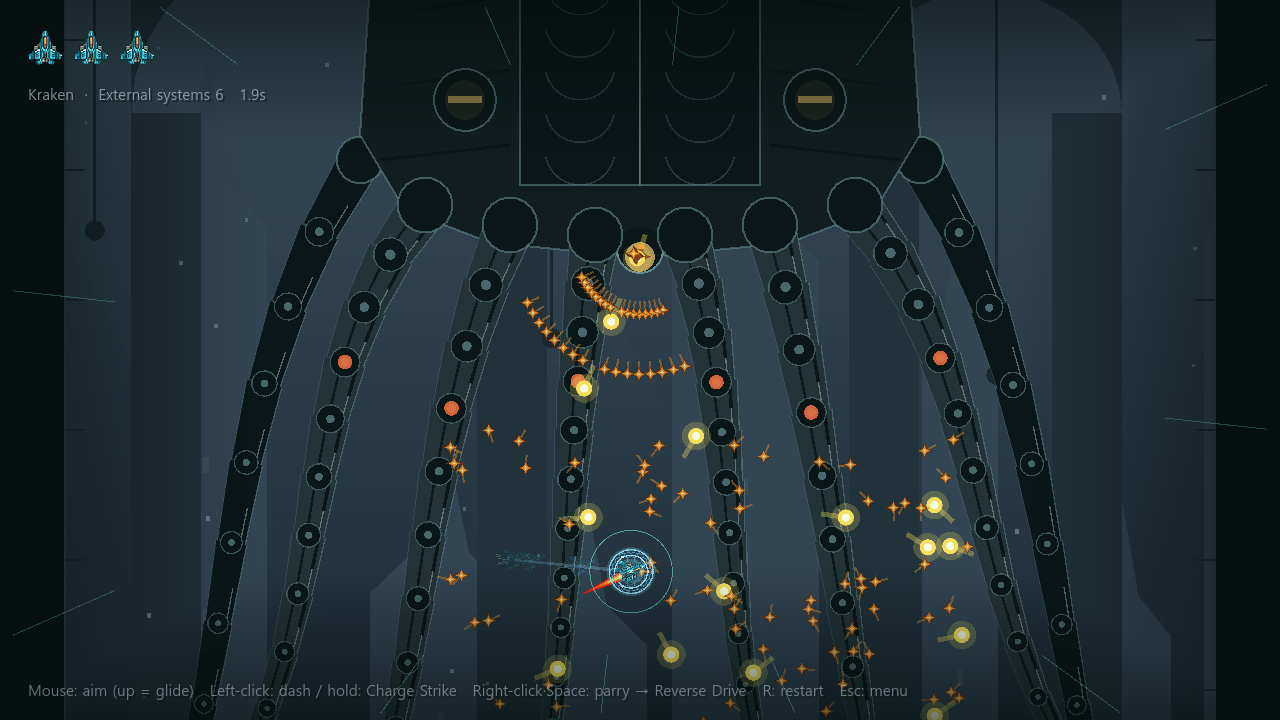
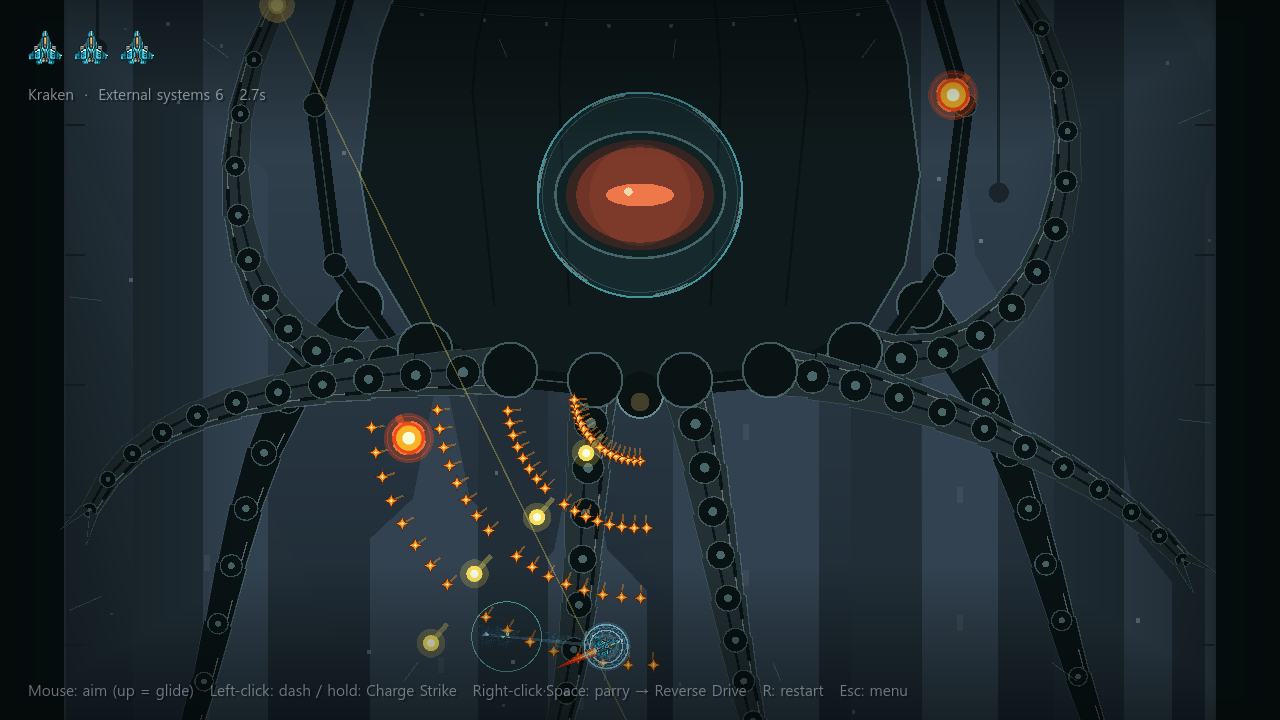
itch package for v0.62: store page adds the Barrier Satellite and music, upload guide covers updating the existing page, screenshots and cover recaptured from real boss attacks (no hand-placed bullets) plus two satellite shots

diff --git a/itch/UPLOAD.md b/itch/UPLOAD.md
@@ -1,13 +1,13 @@
-# itch.io 업로드 방법 (Parry Pierce v0.49)
+# itch.io 업로드 방법 (Parry Pierce v0.62)
 
 이 폴더(`itch/`)에는 itch.io 에 올리는 데 필요한 것이 모두 들어 있습니다.
 
 | 파일 | 용도 |
 |---|---|
 | `build/windows/` | **업로드할 게임 폴더** — `ParryPierce.exe` + `README.txt` (butler 로 올릴 때 이 폴더를 통째로) |
-| `ParryPierce-v0.49-windows.zip` | 같은 내용의 **zip** (웹 대시보드에서 직접 올릴 때) |
+| `ParryPierce-v0.62-windows.zip` | 같은 내용의 **zip** (웹 대시보드에서 직접 올릴 때) |
 | `cover.png` | 표지 이미지 (1260×1000, itch 권장 630×500 의 2배. 5:4 비율이라 그대로 올리면 된다) |
-| `screenshots/01~05_*.png` | 스크린샷 5장 (1280×720, 영어 화면) |
+| `screenshots/01~07_*.png` | 스크린샷 7장 (1280×720, 영어 화면) |
 | `STORE_PAGE.md` | 페이지에 붙여 넣을 소개문 (영어 + 한국어), 태그, 설정 값 |
 
 `exe`/`zip` 은 용량이 커서 git 에는 올리지 않습니다 (`.gitignore`). 새 버전을 만들면 아래 "새 버전 만들기"로 다시 만드세요.
@@ -21,11 +21,18 @@
 3. **Kind of project**: `Downloadable` (실행 파일). *Classification*: `Games`.
 4. **Release status**: `In development` (또는 `Prototype`).
 5. **Pricing**: `$0 or donate`(무료+후원) 권장, 또는 `No payments`.
-6. **Uploads** → *Upload files* 에서 `ParryPierce-v0.49-windows.zip` 선택 → 올라간 파일 옆 체크박스 **Windows** 선택.
+6. **Uploads** → *Upload files* 에서 `ParryPierce-v0.62-windows.zip` 선택 → 올라간 파일 옆 체크박스 **Windows** 선택.
 7. **Description** 에 `STORE_PAGE.md` 의 소개문을 붙여 넣는다.
-8. **Cover image** `cover.png`, **Screenshots** 에 `screenshots/` 의 PNG 5장.
+8. **Cover image** `cover.png`, **Screenshots** 에 `screenshots/` 의 PNG 7장.
 9. **Genre** `Action`, **Tags** 는 `STORE_PAGE.md` 참고, **Languages** 에 `English`, `Korean`.
 10. **Visibility & access** 를 처음엔 **Draft**(비공개)로 두고 *Save* → 미리보기로 확인 → 문제 없으면 **Public** 으로 바꾸고 저장.
+
+## 이미 올린 페이지 업데이트 (v0.49 → v0.62)
+
+1. 대시보드 *Edit game* → **Uploads** 에서 예전 `ParryPierce-v0.49-windows.zip` 을 지우고(또는 *Replace*) `ParryPierce-v0.62-windows.zip` 을 올린 뒤 **Windows** 체크. (butler 를 쓰면 아래 방법 B 한 줄)
+2. **Description** 의 *Colossi* 목록에 4번째 보스(결계 위성) 줄을 추가 — `STORE_PAGE.md` 에 반영해 두었다.
+3. **Cover image** 를 새 `cover.png` 로, **Screenshots** 를 지우고 새 7장으로 교체.
+4. 저장 후 *Devlog* 로 업데이트 소식을 남기면 팔로워에게 알림이 간다 (선택).
 
 ## 방법 B — butler (CLI, 업데이트에 편함 — 이후 버전은 이쪽 권장)
 
@@ -37,9 +44,9 @@ butler 는 바뀐 부분만 올려 줍니다. 한 번만 설치·로그인하면
 butler login
 
 # 3) 업로드: 폴더째 (권장, 다음 버전부터는 변경분만 전송된다)
-butler push itch/build/windows  <itch사용자명>/<프로젝트주소>:windows --userversion 0.49
+butler push itch/build/windows  <itch사용자명>/<프로젝트주소>:windows --userversion 0.62
 
-# 예) butler push itch/build/windows neverb0re/parry-pierce:windows --userversion 0.49
+# 예) butler push itch/build/windows neverb0re/parry-pierce:windows --userversion 0.62
 ```
 
 - 채널 이름 `windows` 는 itch 가 플랫폼(Windows)으로 자동 인식합니다.
@@ -52,9 +59,9 @@ butler push itch/build/windows  <itch사용자명>/<프로젝트주소>:windows 
 # 빌드 (실행 중인 ParryPierce 먼저 종료)
 "<Godot 콘솔 exe>" --headless --path . --export-release "Windows Desktop" ParryPierce.exe
 # itch 폴더 갱신 + zip
-python itch/pack.py 0.50          # build/windows 와 ParryPierce-v0.50-windows.zip 을 다시 만든다
+python itch/pack.py 0.63          # build/windows 와 ParryPierce-v0.63-windows.zip 을 다시 만든다
 # 올리기
-butler push itch/build/windows <사용자명>/<프로젝트주소>:windows --userversion 0.50
+butler push itch/build/windows <사용자명>/<프로젝트주소>:windows --userversion 0.63
 ```
 
 ## 올리기 전에 확인할 것

diff --git a/itch/STORE_PAGE.md b/itch/STORE_PAGE.md
@@ -8,7 +8,7 @@
 - **Platforms**: Windows · **Languages**: English, Korean
 - **Tags**: `parry`, `boss-rush`, `bullet-hell`, `2d`, `pixel-art`, `singleplayer`, `action`, `mouse-only`, `short`, `godot`
 - **Pricing**: Free (or $0 or donate)
-- **Cover**: `cover.png` · **Screenshots**: `screenshots/01~05_*.png`
+- **Cover**: `cover.png` · **Screenshots**: `screenshots/01~07_*.png`
 - **Community**: Comments on (피드백을 받으려면 켜 두기)
 
 ---
@@ -30,6 +30,7 @@ You are a tiny ship facing titanic war machines. Their weapons are huge, their b
 1. **The Observer** — an all-round tutorial titan: lava eruptions, arm sweeps, an eye laser.
 2. **The Barrage Fortress** — a parry-focused tank of spiral fire, fans, homing missiles and mines.
 3. **The Kraken** — an eight-limbed mechanical octopus. Intercept its tentacles to sever them, and brace for the discharge net.
+4. **The Barrier Satellite** — an orbital fortress sealed inside an unparryable barrier. Slip through its purple storms with perfect evades, crack the barrier with synced strikes, then parry the flood that pours out when it opens.
 
 ### Controls (mouse required)
 | Input | Action |
@@ -45,7 +46,7 @@ Language: pick **English / 한국어** with the flag buttons at the bottom-right
 - This is an early prototype — balance and content are still moving. Feedback is very welcome in the comments!
 - Windows may show a SmartScreen warning ("unknown publisher") because the build is not code-signed. Choose *More info → Run anyway* if you trust it.
 - Progress and settings are stored locally; no network access, no accounts, no tracking.
-- Sprite art: *Space Rage* by **Ravenmore** (CC-BY 3.0, http://dycha.net/). Sound and boss art are generated in code.
+- Sprite art: *Space Rage* by **Ravenmore** (CC-BY 3.0, http://dycha.net/). Sound effects, music and boss art are generated in code.
 
 ---
 
@@ -66,6 +67,7 @@ Language: pick **English / 한국어** with the flag buttons at the bottom-right
 1. **관측자** — 용암 분출·팔 휘두르기·눈 레이저의 올라운더
 2. **탄막 요새** — 나선·부채 탄막, 유도탄, 기뢰의 패리 중심 보스
 3. **크라켄** — 촉수를 요격해 끊어야 하는 기계 문어, 방전 그물 주의
+4. **결계 위성** — 패리 불가 결계에 싸인 궤도 요새. 보라 폭풍을 퍼펙트 회피로 넘기고, 동조 일격으로 결계를 깨뜨린 뒤 쏟아지는 탄막을 패리해 꽂아라
 
 ### 조작 (마우스 필수)
 마우스 = 조준(위 = 활공) · 좌클릭 = 돌진 / 꾹 = 차지 강습 · 우클릭·Space 꾹 = 패리 → 슬로우 조준 → 놓으면 리버스 드라이브 · R 재시작 · Esc 메뉴 · F11 전체 화면
@@ -76,7 +78,7 @@ Language: pick **English / 한국어** with the flag buttons at the bottom-right
 - 초기 프로토타입이라 밸런스·콘텐츠가 계속 바뀝니다. 댓글로 피드백을 남겨 주세요!
 - 코드 서명이 없는 빌드라 Windows SmartScreen 경고가 뜰 수 있습니다 (*추가 정보 → 실행*).
 - 진행·설정은 내 컴퓨터에만 저장됩니다. 네트워크·계정·추적 없음.
-- 도트 그림: Ravenmore *Space Rage* (CC-BY 3.0). 사운드와 보스·배경 그림은 코드로 만들었습니다.
+- 도트 그림: Ravenmore *Space Rage* (CC-BY 3.0). 효과음·배경음악과 보스·배경 그림은 코드로 만들었습니다.
 
 ---
 
